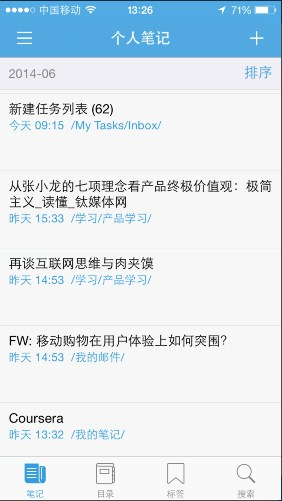
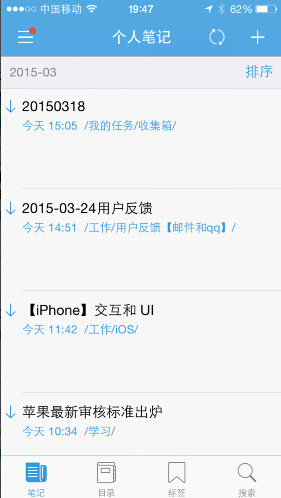
替换图片和少量文字

diff --git a/iPhone/synciphone.md b/iPhone/synciphone.md
@@ -10,7 +10,7 @@
 
 + **待上传：** 当您在没有网络的环境下创建了笔记，在笔记列表页每条笔记就的右下角会看到待上传的图标。在网络环境下，您可以将笔记同步到云端。只要笔记还没有上传到服务器，笔记列表页每条笔记下边都有待上传图标。
     ![I20](img/I20.jpg)
-+ **待下载：** 如果您的笔记内容还没有从服务器下载到本地，在笔记列表页，笔记的标题都是黑色的。表示笔记数据还没有下载下来，目前只有标题数据。
++ **待下载：** 如果您的笔记内容还没有从服务器下载到本地，在笔记列表页每条笔记左侧有待下载的图标。表示笔记数据还没有下载下来，目前只有标题数据。
     ![I21](img/I21.jpg)
 + **已下载：** 如果笔记已经下载到本地，那么笔记列表页笔记标题和笔记摘要都是灰色字体
     ![I22](img/I22.jpg)
